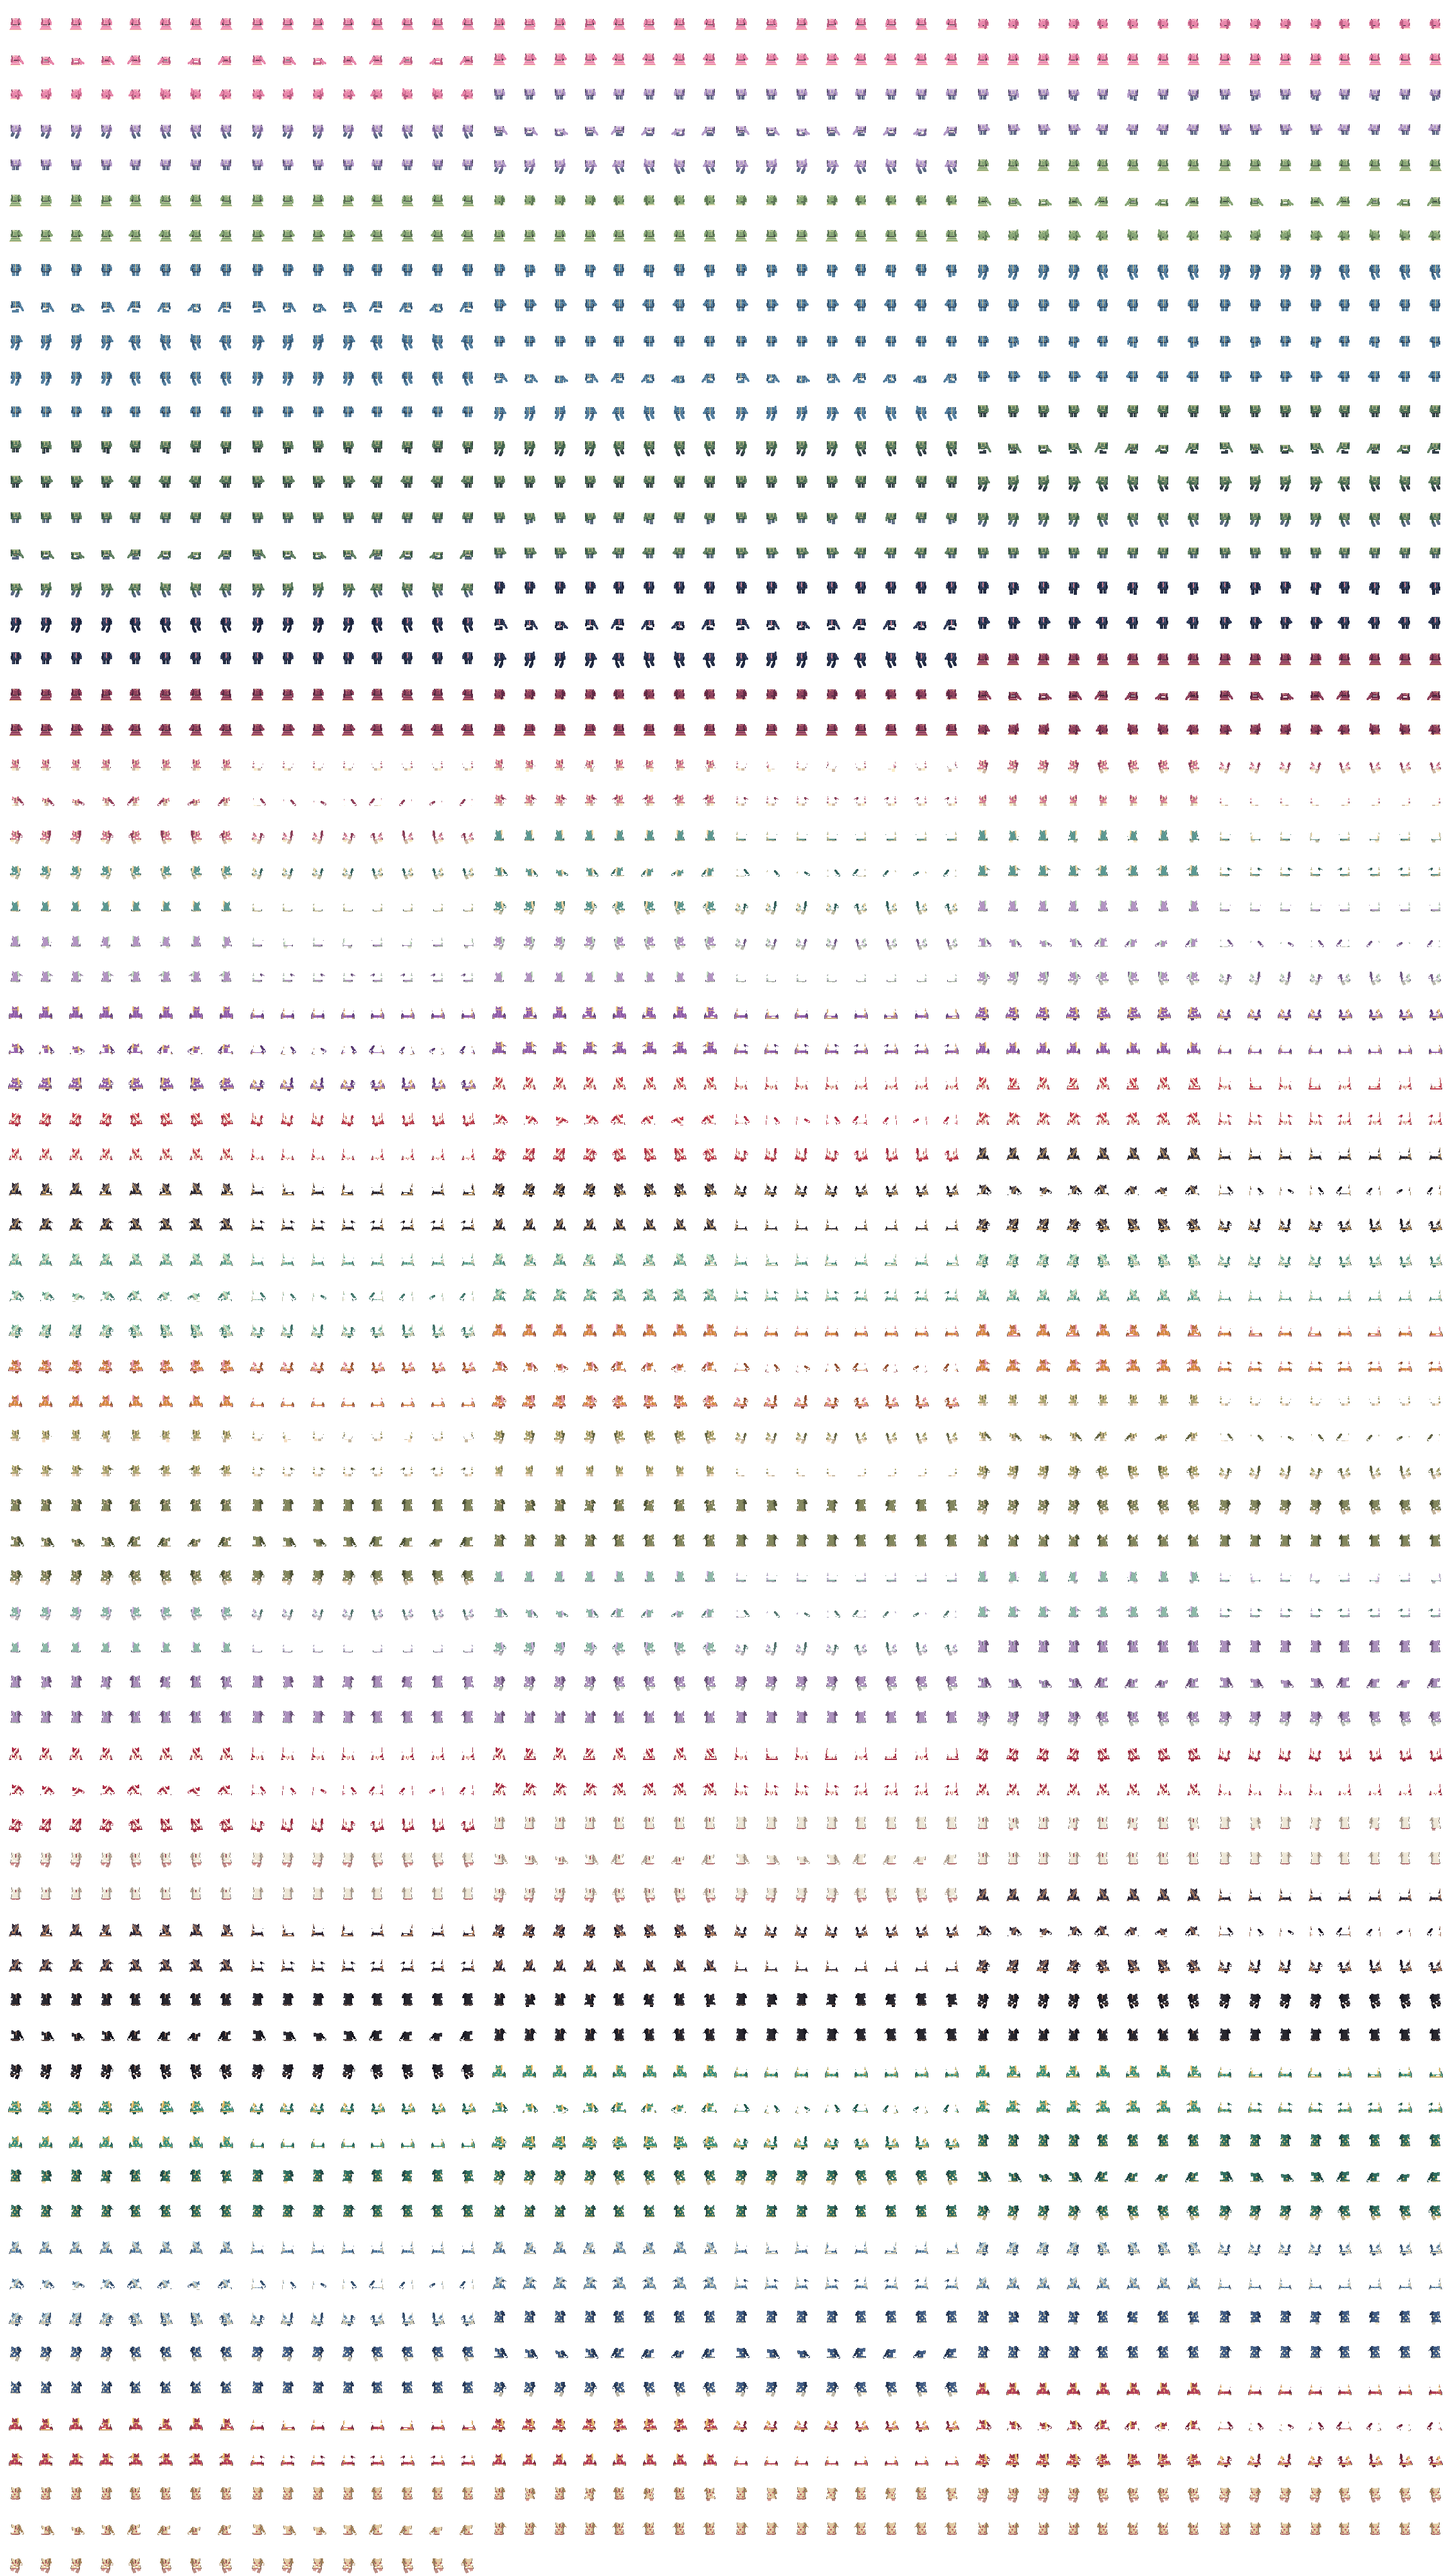
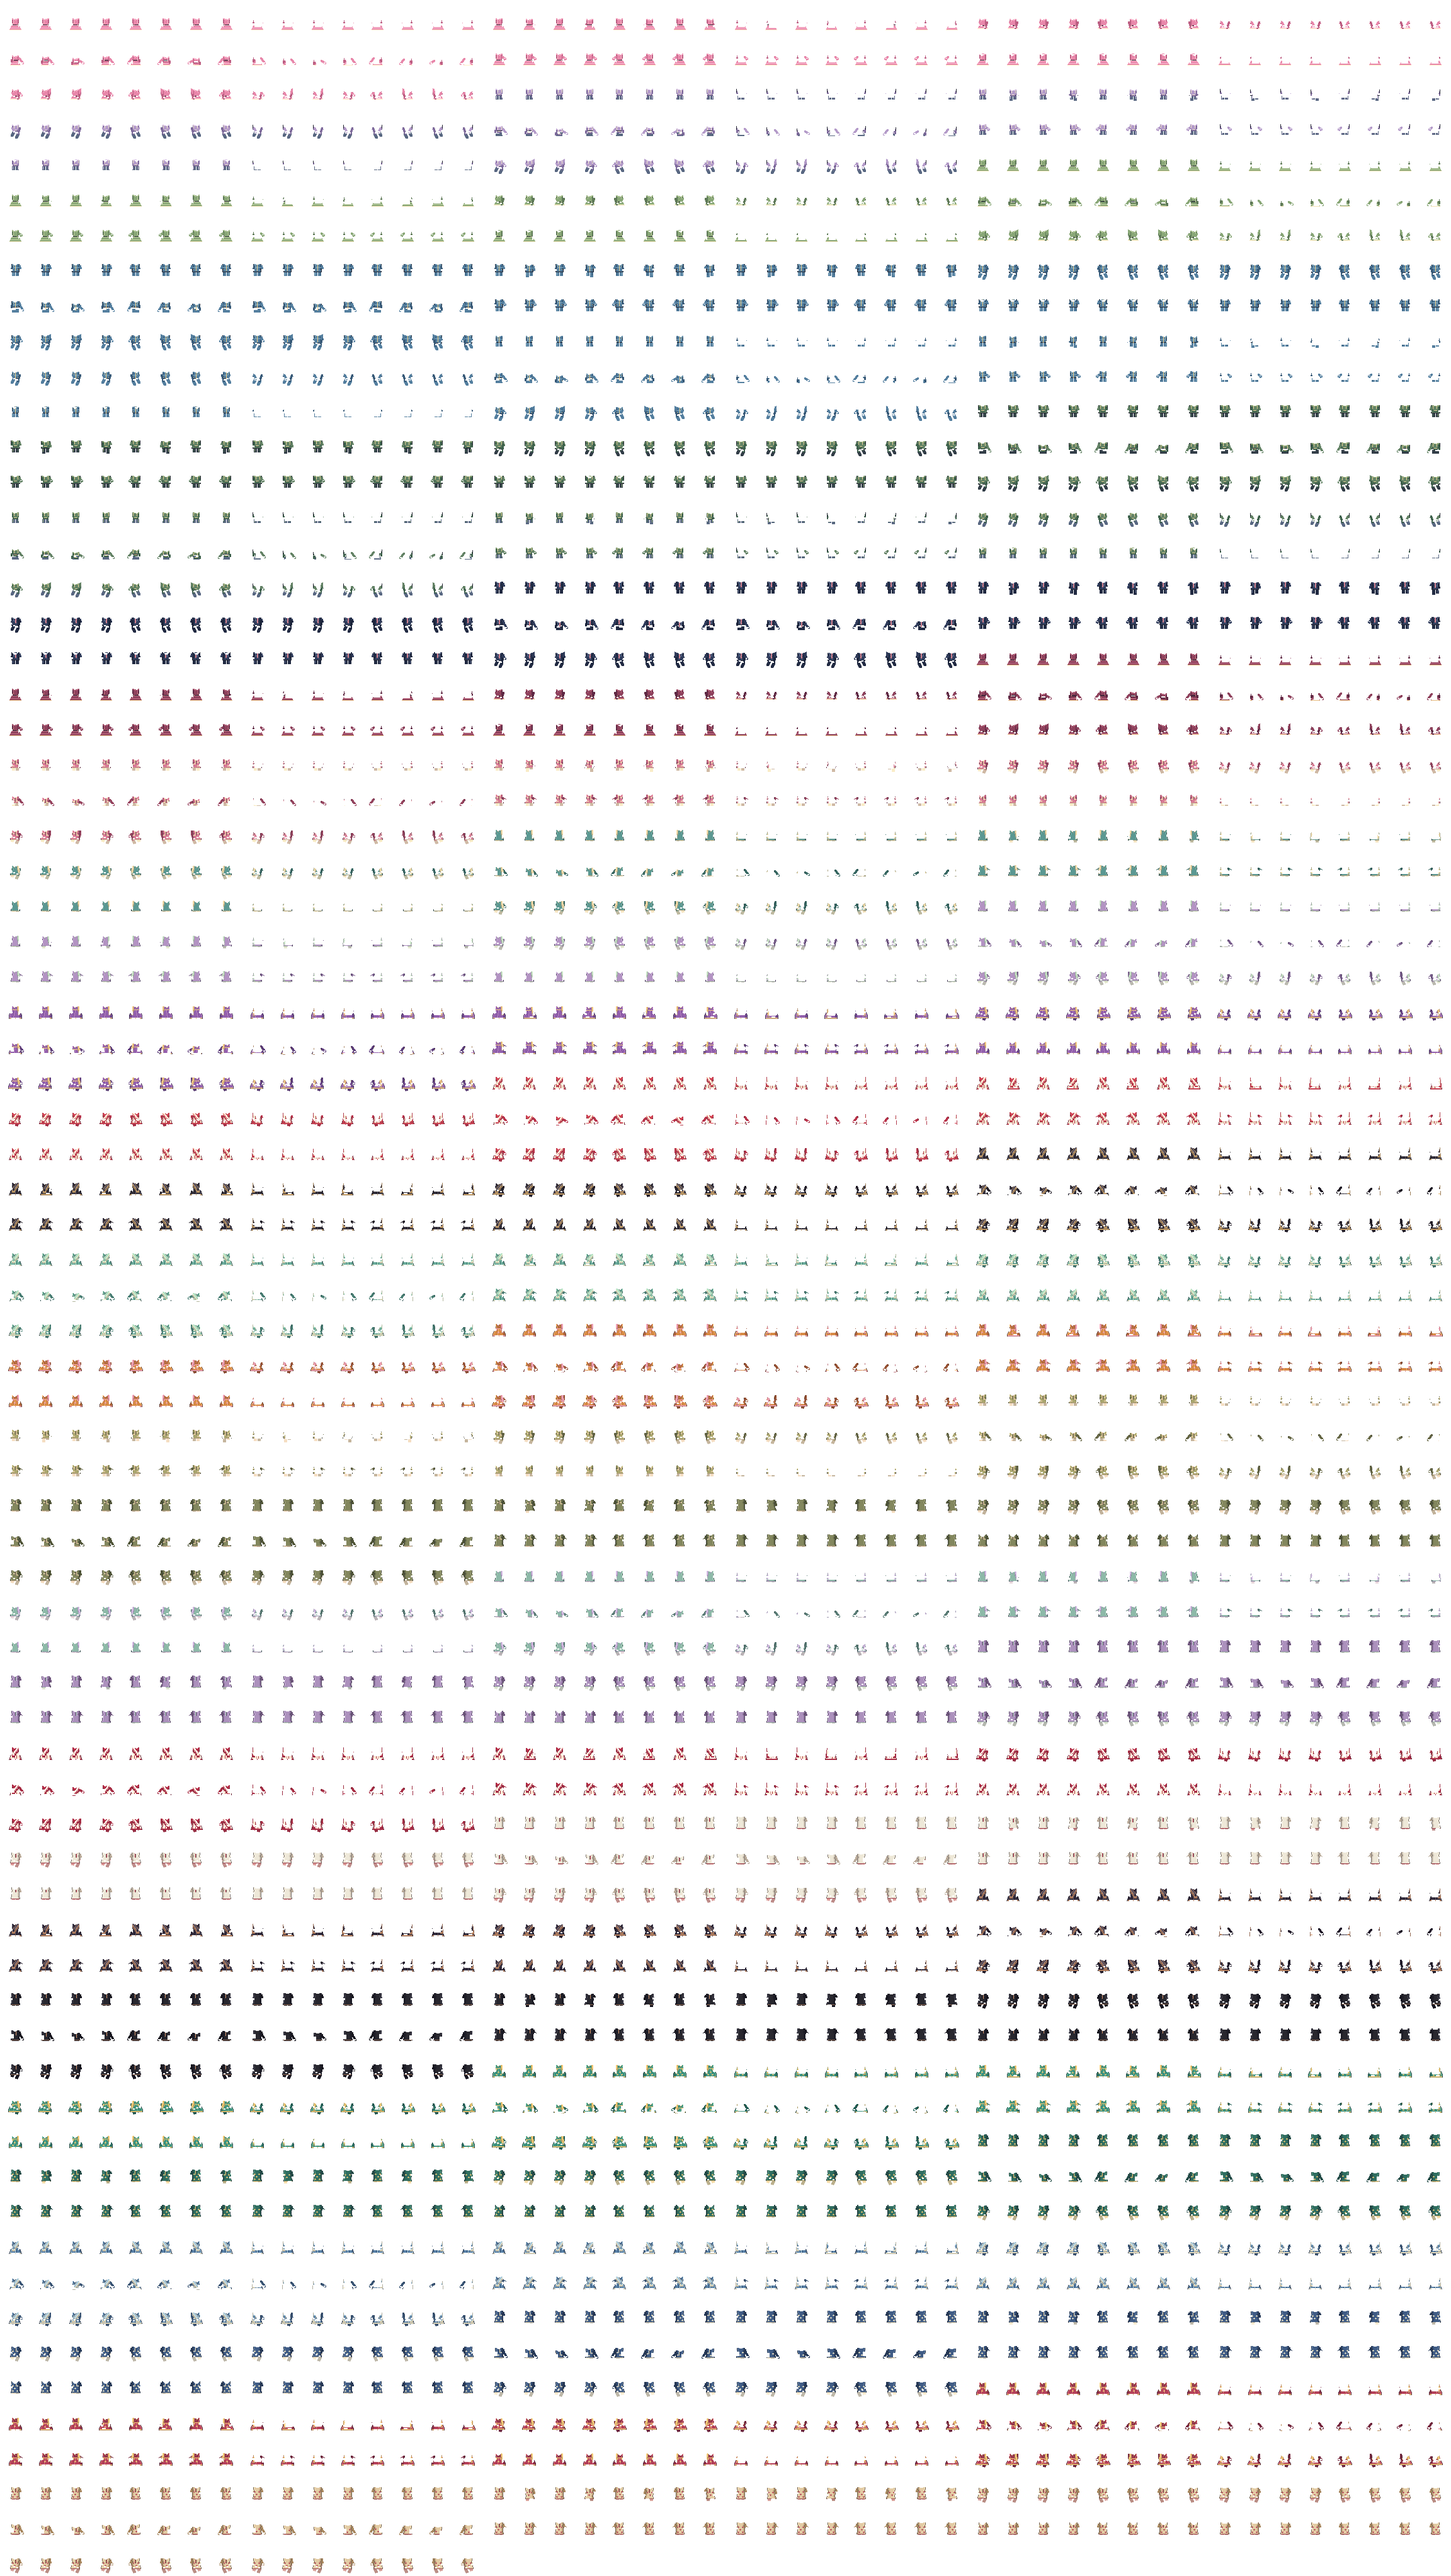
feat: integrate personalized characters with fashion and animations

Changed region(s): [[0.25, 0.0621, 0.2812, 0.0932]]

diff --git a/src/garden/CharacterSprite.tsx b/src/garden/CharacterSprite.tsx
@@ -58,7 +58,7 @@ export function CharacterSprite({character,layers}:{character:CharacterPose;laye
  });
  return <g transform={`translate(${Math.round(x)} ${Math.round(y)})`} pointerEvents="none" aria-hidden="true" data-character={person} data-pose={pose} data-gesture={character.gesture}>
   <svg x={-f.anchorX} y={-f.anchorY} width={f.w} height={f.h} viewBox={`${f.x} ${f.y} ${f.w} ${f.h}`} overflow="hidden"><image href="/art/characters.png" width={atlas.width} height={atlas.height} style={{imageRendering:'pixelated'}}/></svg>
-  {character.gesture==='hurry'&&direction.startsWith('s')&&<path transform={`translate(0 ${frame%2})`} d="M-5-28h2v1h1v1h-2v-1h-1zm6 1h1v-1h2v1H3v1H1z" fill="#51333d" shapeRendering="crispEdges"/>}
+  {character.gesture==='hurry'&&direction.startsWith('s')&&<path transform={`translate(0 ${frame%2-1})`} d="M-5-28h2v1h1v1h-2v-1h-1zm6 1h1v-1h2v1H3v1H1z" fill="#51333d" shapeRendering="crispEdges"/>}
   {clothing.map(({sprite,layer})=><svg key={sprite} x={-layer.anchorX} y={-layer.anchorY} width={layer.w} height={layer.h} viewBox={`${layer.x} ${layer.y} ${layer.w} ${layer.h}`} overflow="hidden"><image href={layer.source} width={fashion.width} height={layer.height} style={{imageRendering:'pixelated'}}/></svg>)}
   <GestureEffects character={character}/>
   {character.idleHeart&&!hearts&&<path className="character-hearts" style={{animationDuration:'1.25s',animationIterationCount:1}} d="M-2-45h2v1h1v-1h2v3H2v1H1v1H0v-1h-1v-1h-1Z" fill="#e6a0b0"/>}
